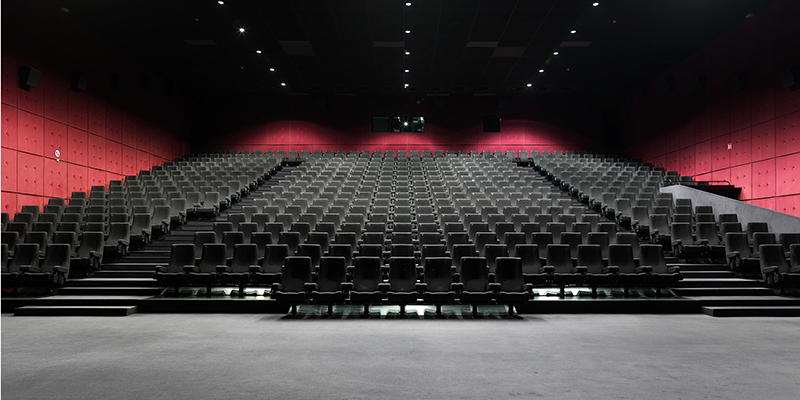
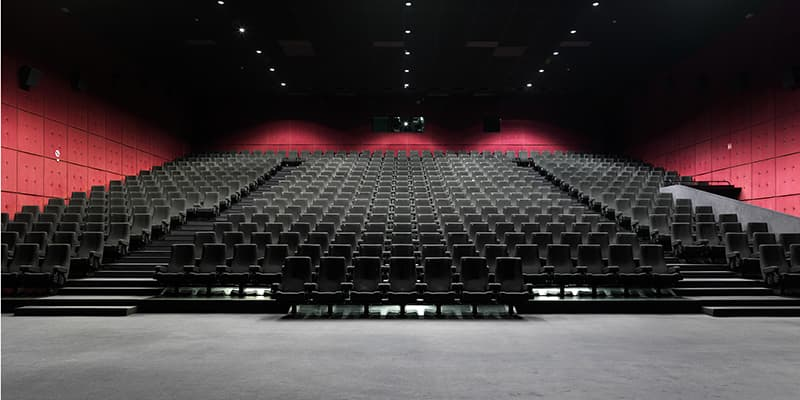
Fidex typos + manifest + optimized jpg

diff --git a/index.html b/index.html
@@ -4,7 +4,8 @@
 	<meta http-equiv="Content-Type" content="text/html; charset=utf-8" />
 	<meta http-equiv="X-UA-Compatible" content="IE=edge" />
 	<meta name="viewport" content="width=device-width, initial-scale=1.0" />
-	<meta name="keywords" content="" />
+	<meta name="keywords" content="Devfest, Lille, GDG, Conférence, Web, Mobile, Cloud, Quickies" />
+	<meta name="theme-color" content="#F37D11">
 	<link href="img/favicon.png" type="image/png" rel="icon" />
 	<title>DEVFEST LILLE 2019</title>
 
@@ -35,7 +36,7 @@
 
       gtag('config', 'UA-124200391-2');
 	</script>
-	<link rel="manifest" href="manifest.json">
+	<link rel="manifest" href="manifest.json" />
 </head>
 
 <body id="home">
@@ -87,10 +88,10 @@
 					<div class="stats">
 						<h2>Ne ratez pas la saison 3!</h2>
 						<ul>
-							<li><strong>700</strong> acteurs</li>
-							<li><strong>4</strong> <span lang="en">tracks</span></li>
+							<li><strong>+700</strong> téléspectateurs</li>
+							<li><strong>40</strong> acteurs</li>
 							<li><strong>30</strong> épisodes</li>
-							<li><strong>40</strong> <span lang="en">téléspectateurs</span></li>
+							<li><strong>4</strong> <span lang="en">tracks</span></li>
 						</ul>
 					</div>
 				</div>
@@ -114,27 +115,27 @@
 						communauté des développeurs de la région Haut de France.</p>
 					<p class="read-more"><a href="#">Dossier de sponsoring</a></p>
 				</div>
-				<div class="content">
+				<!--div class="content">
 					<h3>Un grand merci à nos sponsors!</h3>
 					<div class="sponsors">
 						<h4 lang="en">Sponsors Gold</h3>
 						<ul>
-							
+
 						</ul>
 					</div>
 					<div class="sponsors">
 						<h4 lang="en">Sponsors Silver</h3>
 						<ul>
-							
+
 						</ul>
 					</div>
 					<div class="sponsors">
 						<h4>Sponsors Bronze</h3>
 						<ul>
-							
+
 						</ul>
 					</div>
-				</div>
+				</div-->
 			</aside>
 		</div>
 
@@ -147,7 +148,7 @@
 					<dd class="p-summary">Une journée de
 						conférences, de code labs et d'échanges	sur les sujets du web, du mobile, du cloud et
 						des technologies Google.</dd>
-					<dd><time class="dt-start" datetime="2019-06-21">21 juin 2019</time></dd>
+					<dd><time class="dt-start" datetime="2019-06-14">14 juin 2019</time></dd>
 					<dd><a href="#" class="p-location">Kinépolis Lomme</a></dd>
 				</dl>
 				<ul class="links-list">
@@ -162,8 +163,8 @@
 			</div>
 			<ul class="sm-list">
 				<li class="show-icons"><a href="https://twitter.com/devfestLille/"><img src="img/twitter.svg" alt="Twitter" /></a></li>
-				<li class="show-icons"><a href="https://www.facebook.com/GoogleDeveloperGroupLille/"><img src="img/linkedin.svg" alt="LinkedIn" /></a></li>
-				<li class="show-icons"><a href="https://www.linkedin.com/company/gdg-lille/"><img src="img/fb.svg" alt="Facebook" /></a></li>
+				<li class="show-icons"><a href="https://www.linkedin.com/company/gdg-lille/"><img src="img/linkedin.svg" alt="LinkedIn" /></a></li>
+				<li class="show-icons"><a href="https://www.facebook.com/GoogleDeveloperGroupLille/"><img src="img/fb.svg" alt="Facebook" /></a></li>
 			</ul>
 	    <p class="copyright">GDG Lille, 2019</p>
     </footer>

diff --git a/css/main.css b/css/main.css
@@ -89,6 +89,7 @@ h2 {
 	position: relative;
 	display: inline-block;
 	font-size: calc(1.2em + 1vmax);
+	color: var(--body-text);
 	background-color: var(--hot-color);
 	padding: 0.3em 0.5em;
 	margin-bottom: 2rem;
@@ -103,6 +104,7 @@ h2 {
 		top: 10px;
 		left: -40px;
 		content: "";
+		color: var(--body-text);
 		background: url(../img/border.svg) repeat-x;
 		transform: rotate(-5deg);
 	}
